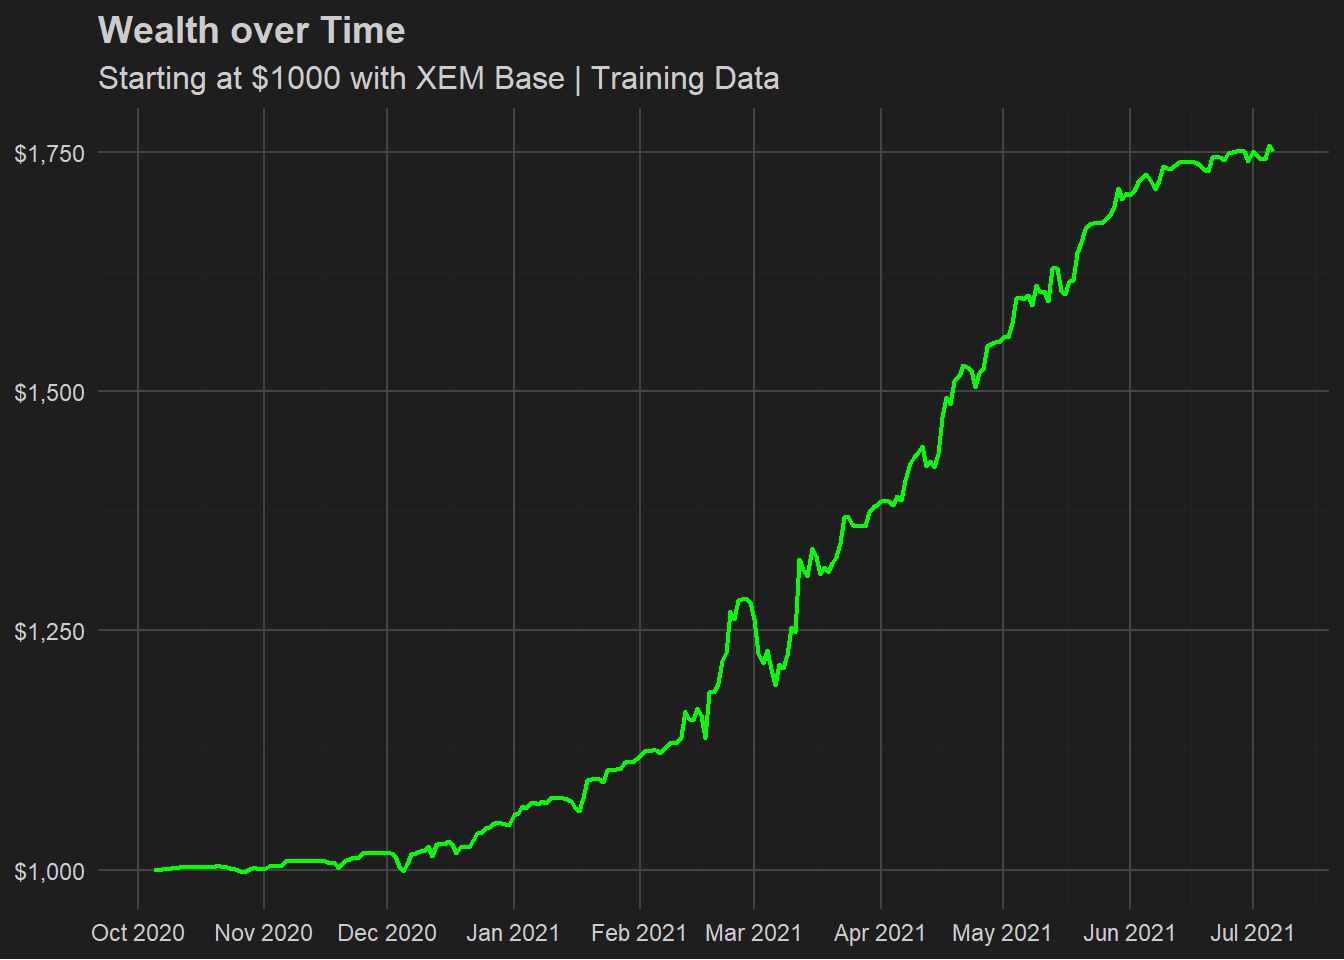
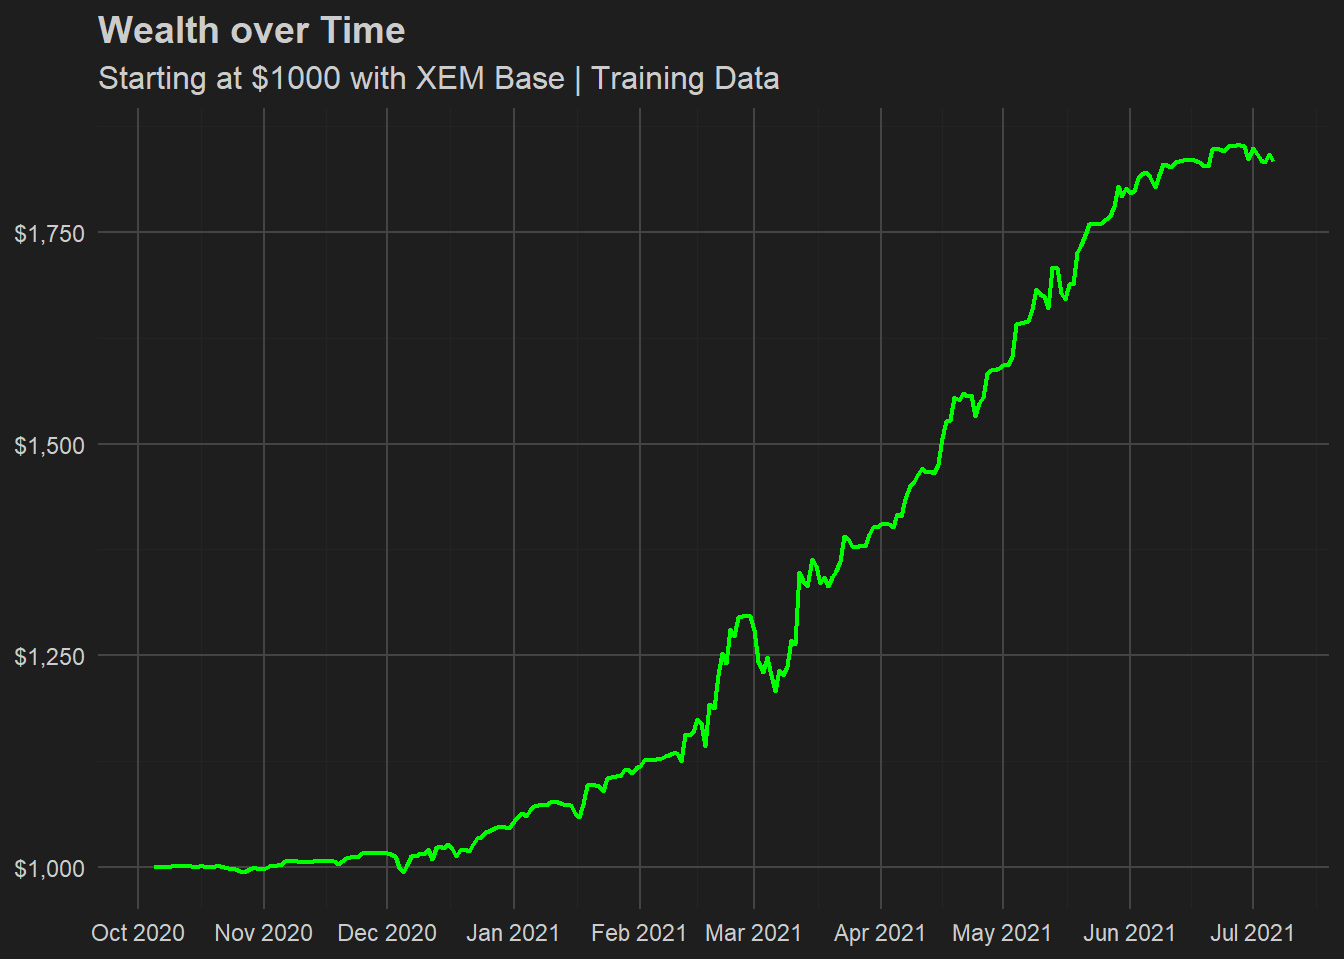
report final

diff --git a/trading_residuals_report.html b/trading_residuals_report.html
@@ -136,26 +136,24 @@ window.Quarto = {
 </header>
 
 
-<p># Regression Residual Trading</p>
 <div class="tabset-margin-container"></div><div class="panel-tabset">
 <ul class="nav nav-tabs" role="tablist"><li class="nav-item" role="presentation"><a class="nav-link active" id="tabset-1-1-tab" data-bs-toggle="tab" data-bs-target="#tabset-1-1" role="tab" aria-controls="tabset-1-1" aria-selected="true" href="">Overview</a></li><li class="nav-item" role="presentation"><a class="nav-link" id="tabset-1-2-tab" data-bs-toggle="tab" data-bs-target="#tabset-1-2" role="tab" aria-controls="tabset-1-2" aria-selected="false" href="">Formulation</a></li><li class="nav-item" role="presentation"><a class="nav-link" id="tabset-1-3-tab" data-bs-toggle="tab" data-bs-target="#tabset-1-3" role="tab" aria-controls="tabset-1-3" aria-selected="false" href="">Implementation</a></li><li class="nav-item" role="presentation"><a class="nav-link" id="tabset-1-4-tab" data-bs-toggle="tab" data-bs-target="#tabset-1-4" role="tab" aria-controls="tabset-1-4" aria-selected="false" href="">Improvements</a></li></ul>
 <div class="tab-content">
 <div id="tabset-1-1" class="tab-pane active" role="tabpanel" aria-labelledby="tabset-1-1-tab">
-<p>The foundation of this trading strategy is that traders will trade similar securities in a similar fashion. For example let’s consider two securities denoted <span class="math inline">\(S_1\)</span> and <span class="math inline">\(S_2\)</span>. We assume that traders will expect for these to move together. If <span class="math inline">\(S_1\)</span> or <span class="math inline">\(S_2\)</span> deviate from one another, we expect them to converge. This phenomena can be profited from by buying one security and shorting the other. This strategy will tell us which security to short and which to buy and in what quantities. It will also allow for more securities to be included, which improves the model.</p>
+<p>The foundation of this trading strategy is that traders will trade similar securities in a similar fashion. For example let’s consider two securities, who’s prices are denoted as <span class="math inline">\(S_B\)</span> and <span class="math inline">\(S_P\)</span>. We assume that traders will expect for these to move together. If <span class="math inline">\(S_B\)</span> or <span class="math inline">\(S_P\)</span> deviate from one another, we expect them to converge. This phenomena can be profited from by buying one security and shorting the other. The following strategy will tell us which security to short and which to buy and in what quantities. It will also allow for more securities to be included, which improves the model.</p>
 </div>
 <div id="tabset-1-2" class="tab-pane" role="tabpanel" aria-labelledby="tabset-1-2-tab">
-<section id="relating-s_1-and-s_2" class="level3">
-<h3 class="anchored" data-anchor-id="relating-s_1-and-s_2">Relating <span class="math inline">\(S_1\)</span> and <span class="math inline">\(S_2\)</span></h3>
-<p>To describe the phenomena described in the overview consider two securities denoted <span class="math inline">\(S_B\)</span> and <span class="math inline">\(S_P\)</span>, where <span class="math inline">\(S_B\)</span> is the “Base security” and <span class="math inline">\(S_P\)</span> is the “Pseudo-Security”.<br>
+<section id="relating-s_b-and-s_p" class="level3">
+<h3 class="anchored" data-anchor-id="relating-s_b-and-s_p">Relating <span class="math inline">\(S_B\)</span> and <span class="math inline">\(S_P\)</span></h3>
+<p>To describe the phenomena explained in the overview, consider two securities denoted <span class="math inline">\(S_B\)</span> and <span class="math inline">\(S_P\)</span>, where <span class="math inline">\(S_B\)</span> is the “Base security” and <span class="math inline">\(S_P\)</span> is the “Pseudo-Security”.<br>
 Let <span class="math display">\[S_{B,t} = S_{P,t} + \phi_t\]</span> where <span class="math inline">\(\phi_t \in \mathbb{R}\)</span>.<br>
-<span class="math inline">\(\phi_t\)</span> is essentially the residual for <span class="math inline">\(S_{B,t} = S_{P,t}\)</span>. If <span class="math inline">\(S_P\)</span> follows <span class="math inline">\(S_B\)</span> and they are thought to converge, then <span class="math inline">\(\phi\)</span> should be pushed toward <span class="math inline">\(0\)</span>.<br>
 While the base(<span class="math inline">\(S_B\)</span>) is just a security, The pseudo-security(<span class="math inline">\(S_B\)</span>) is more complex. It is a linear combination of securities that follows <span class="math inline">\(S_B\)</span>. By substituting <span class="math inline">\(S_{P,t} = \sum_{i=1}^{n} \gamma_i S_{i,t}\)</span> we get: <span class="math display">\[S_{B,t} = \sum_{i=1}^{n} \gamma_i S_{i,t} + \phi_t\]</span><br>
-where <span class="math inline">\(\lambda_i \in \mathbb{R}\)</span>.<br>
-All the <span class="math inline">\(\lambda_i\)</span> can be found using various methods. Least squares will be used here, though gradient decent could give a less overfit model.</p>
+where <span class="math inline">\(\gamma_i \in \mathbb{R}\)</span>.<br>
+All <span class="math inline">\(\gamma_i\)</span> can be found using various methods. Least squares will be used here, though gradient decent could give a less overfit model.</p>
 </section>
 <section id="how-to-trade-phi" class="level3">
 <h3 class="anchored" data-anchor-id="how-to-trade-phi">How to trade <span class="math inline">\(\phi\)</span></h3>
-<p>Using the formula <span class="math inline">\(S_{B,t} = \sum_{i=1}^{n} \gamma_i S_{i,t} + \phi_t\)</span>, <span class="math inline">\(phi_t\)</span> can be solved for to get: <span class="math display">\[\phi_t = S_{B,t} - \sum_{i=1}^{n} \gamma_i S_{i,t}\]</span> The <span class="math inline">\(\gamma_i\)</span> provides weights for each security to be bought at, as well as a weight of <span class="math inline">\(1\)</span> for <span class="math inline">\(S_B\)</span>. Each security <span class="math inline">\(S_i\)</span> will have <span class="math inline">\(\gamma_i\)</span> shares bought, negative <span class="math inline">\(\gamma\)</span> means going short.</p>
+<p>Using the formula <span class="math inline">\(S_{B,t} = \sum_{i=1}^{n} \gamma_i S_{i,t} + \phi_t\)</span>, solving for <span class="math inline">\(\phi_t\)</span> gives: <span class="math display">\[\phi_t = S_{B,t} - \sum_{i=1}^{n} \gamma_i S_{i,t}\]</span> The <span class="math inline">\(\gamma_i\)</span> provides weights for each security to be bought at, as well as a weight of <span class="math inline">\(1\)</span> for <span class="math inline">\(S_B\)</span>. Each security <span class="math inline">\(S_i\)</span> will have <span class="math inline">\(\gamma_i\)</span> shares bought, negative <span class="math inline">\(\gamma_i\)</span> means going short.</p>
 </section>
 <section id="properties-of-phi" class="level3">
 <h3 class="anchored" data-anchor-id="properties-of-phi">Properties of <span class="math inline">\(\phi\)</span></h3>
@@ -416,10 +414,12 @@ All the <span class="math inline">\(\lambda_i\)</span> can be found using variou
 <section id="position-sizing" class="level3">
 <h3 class="anchored" data-anchor-id="position-sizing">Position Sizing</h3>
 <p>To size trades, log utility maximization will be used. This will help avoid ruin. Wealth follows the formula: <span class="math display">\[W_{t+1} = W_t (1 + f_t R_{t+1})\]</span> where <span class="math inline">\(W_{t+1}\)</span> is tomorrows wealth, <span class="math inline">\(W_t\)</span> is today’s wealth, <span class="math inline">\(R_{t+1}\)</span> is tomorrow’s return on a trade, and <span class="math inline">\(f_{t}\)</span> is the fraction of wealth used in a trade.<br>
-Using log utility maximization we need to maximize: <span class="math display">\[\mathbb{E}[\ln(1+f_{t} R_t)]\]</span> Substituting <span class="math display">\[
+Using log utility maximization we need to maximize: <span class="math display">\[
+\mathbb{E}\!\left[ \ln\!\bigl(1 + f_{t} R_{t+1}\bigr) \right]
+\]</span> Substituting <span class="math display">\[
 R_{t+1} = \frac{\phi_{t+1}-\phi_{t}}{C_t}
 \]</span> where <span class="math inline">\(C_{t}\)</span> is the cost of purchasing <span class="math inline">\(\phi_{t}\)</span>. We then get: <span class="math display">\[
-\mathbb{E}[\ln(1+f_{t} \frac{\phi_{t+1}-\phi_{t}}{C_{t}})]
+\mathbb{E}\!\left[ \ln\!\biggl(1 + f_{t} \frac{\phi_{t+1} - \phi_{t}}{C_{t}}\biggr) \right]
 \]</span></p>
 <p>Since <span class="math inline">\(-\infty&lt;\phi&lt;\infty\)</span> the expected value cannot be analytically evaluated. Instead, the second order Taylor approximation can be used. Higher orders can be used for greater accuracy. The new approximation is: <span class="math display">\[
 \begin{align}
@@ -471,7 +471,8 @@ f_t = -\frac{C_{t}(1-\lambda)\phi_t}{(1-\lambda)^2\phi_t^2+\sigma^2}
 <section id="training-data" class="level3">
 <h3 class="anchored" data-anchor-id="training-data">Training Data</h3>
 <p>First, to ensure the mathematics behind the strategy are correct, trading will be simulated on the training data. This is to check for flaws in the underlying theory.<br>
-The fraction of wealth equation derived in the Formulation section can over leverage, so a cap of <span class="math inline">\(\pm0.9\)</span> is set on the fraction, as well as dividing it by <span class="math inline">\(20\)</span>. This coefficient is a way to increase or decrease risk while using the strategy.</p>
+The fraction of wealth equation derived in the Formulation section can over leverage, so the fraction is dividing by <span class="math inline">\(20\)</span> and a cap of <span class="math inline">\(\pm0.9\)</span> used. This reduces risk and safeguards against outliers. A number other than <span class="math inline">\(20\)</span> can be used to match personal risk tolerance.<br>
+This test also excludes less significant securities from the pseudo-security in attempt to reduce overfitting.</p>
 <div class="cell">
 <details class="code-fold">
 <summary>Code</summary>
@@ -544,7 +545,7 @@ The fraction of wealth equation derived in the Formulation section can over leve
 </div>
 </div>
 <p>This shows that the assumption of <span class="math inline">\(\phi\)</span> being a AR(1) is at least partially true, as well as confirming that the trade sizing found in the Formulation section is working.</p>
-<p>The following is the a closer look at XEM as a base. Even during downwards movement in the base the strategy can return a profit.</p>
+<p>The following is the a closer look at XEM as a base. Note that even during downwards movement in the base the strategy can return a profit.</p>
 <div class="cell">
 <details class="code-fold">
 <summary>Code</summary>
@@ -558,7 +559,7 @@ The fraction of wealth equation derived in the Formulation section can over leve
 <span id="cb6-8"><a href="#cb6-8" aria-hidden="true" tabindex="-1"></a>phi_t <span class="ot">=</span> <span class="fu">numeric</span>()</span>
 <span id="cb6-9"><a href="#cb6-9" aria-hidden="true" tabindex="-1"></a></span>
 <span id="cb6-10"><a href="#cb6-10" aria-hidden="true" tabindex="-1"></a></span>
-<span id="cb6-11"><a href="#cb6-11" aria-hidden="true" tabindex="-1"></a>model <span class="ot">=</span> <span class="fu">auto_lm</span>(trading_df, ticker, <span class="fl">1.00</span>)</span>
+<span id="cb6-11"><a href="#cb6-11" aria-hidden="true" tabindex="-1"></a>model <span class="ot">=</span> <span class="fu">auto_lm</span>(trading_df, ticker, <span class="fl">0.1</span>)</span>
 <span id="cb6-12"><a href="#cb6-12" aria-hidden="true" tabindex="-1"></a>fit <span class="ot">=</span> <span class="fu">Arima</span>(model<span class="sc">$</span>residuals, <span class="at">order =</span> <span class="fu">c</span>(<span class="dv">1</span>, <span class="dv">0</span>, <span class="dv">0</span>), <span class="at">include.mean =</span> F)</span>
 <span id="cb6-13"><a href="#cb6-13" aria-hidden="true" tabindex="-1"></a></span>
 <span id="cb6-14"><a href="#cb6-14" aria-hidden="true" tabindex="-1"></a>sigma_2 <span class="ot">=</span> <span class="fu">as.numeric</span>(fit<span class="sc">$</span>sigma2)</span>
@@ -678,137 +679,74 @@ The fraction of wealth equation derived in the Formulation section can over leve
 </thead>
 <tbody>
 <tr class="odd">
-<td style="text-align: left;">AAVE</td>
-<td style="text-align: right;">0.0001149</td>
-<td style="text-align: right;">0.0001340</td>
-<td style="text-align: right;">0.8573124</td>
-<td style="text-align: right;">0.3920741</td>
-</tr>
-<tr class="even">
-<td style="text-align: left;">BNB</td>
-<td style="text-align: right;">0.0002128</td>
-<td style="text-align: right;">0.0001870</td>
-<td style="text-align: right;">1.1380563</td>
-<td style="text-align: right;">0.2561609</td>
-</tr>
-<tr class="odd">
-<td style="text-align: left;">BTC</td>
-<td style="text-align: right;">0.0000017</td>
-<td style="text-align: right;">0.0000017</td>
-<td style="text-align: right;">0.9712177</td>
-<td style="text-align: right;">0.3323566</td>
-</tr>
-<tr class="even">
 <td style="text-align: left;">ADA</td>
-<td style="text-align: right;">0.1688994</td>
-<td style="text-align: right;">0.0378065</td>
-<td style="text-align: right;">4.4674672</td>
-<td style="text-align: right;">0.0000119</td>
+<td style="text-align: right;">0.1643243</td>
+<td style="text-align: right;">0.0284003</td>
+<td style="text-align: right;">5.785999</td>
+<td style="text-align: right;">0.0000000</td>
 </tr>
-<tr class="odd">
+<tr class="even">
 <td style="text-align: left;">LINK</td>
-<td style="text-align: right;">0.0037530</td>
-<td style="text-align: right;">0.0025486</td>
-<td style="text-align: right;">1.4725536</td>
-<td style="text-align: right;">0.1420998</td>
-</tr>
-<tr class="even">
-<td style="text-align: left;">ATOM</td>
-<td style="text-align: right;">0.0028293</td>
-<td style="text-align: right;">0.0033742</td>
-<td style="text-align: right;">0.8385104</td>
-<td style="text-align: right;">0.4025264</td>
+<td style="text-align: right;">0.0035640</td>
+<td style="text-align: right;">0.0018272</td>
+<td style="text-align: right;">1.950536</td>
+<td style="text-align: right;">0.0521664</td>
 </tr>
 <tr class="odd">
-<td style="text-align: left;">CRO</td>
-<td style="text-align: right;">-0.2263950</td>
-<td style="text-align: right;">0.1948246</td>
-<td style="text-align: right;">-1.1620455</td>
-<td style="text-align: right;">0.2462992</td>
-</tr>
-<tr class="even">
-<td style="text-align: left;">DOGE</td>
-<td style="text-align: right;">-0.1031401</td>
-<td style="text-align: right;">0.1161783</td>
-<td style="text-align: right;">-0.8877740</td>
-<td style="text-align: right;">0.3754956</td>
-</tr>
-<tr class="odd">
-<td style="text-align: left;">EOS</td>
-<td style="text-align: right;">0.0045942</td>
-<td style="text-align: right;">0.0096425</td>
-<td style="text-align: right;">0.4764503</td>
-<td style="text-align: right;">0.6341600</td>
-</tr>
-<tr class="even">
 <td style="text-align: left;">ETH</td>
-<td style="text-align: right;">-0.0003197</td>
-<td style="text-align: right;">0.0000427</td>
-<td style="text-align: right;">-7.4888474</td>
+<td style="text-align: right;">-0.0003330</td>
+<td style="text-align: right;">0.0000258</td>
+<td style="text-align: right;">-12.904151</td>
+<td style="text-align: right;">0.0000000</td>
+</tr>
+<tr class="even">
+<td style="text-align: left;">MIOTA</td>
+<td style="text-align: right;">-0.2357942</td>
+<td style="text-align: right;">0.0388621</td>
+<td style="text-align: right;">-6.067463</td>
 <td style="text-align: right;">0.0000000</td>
 </tr>
 <tr class="odd">
-<td style="text-align: left;">MIOTA</td>
-<td style="text-align: right;">-0.2470851</td>
-<td style="text-align: right;">0.0526307</td>
-<td style="text-align: right;">-4.6946914</td>
-<td style="text-align: right;">0.0000044</td>
-</tr>
-<tr class="even">
 <td style="text-align: left;">LTC</td>
-<td style="text-align: right;">0.0011058</td>
-<td style="text-align: right;">0.0004226</td>
-<td style="text-align: right;">2.6163705</td>
-<td style="text-align: right;">0.0094152</td>
-</tr>
-<tr class="odd">
-<td style="text-align: left;">XMR</td>
-<td style="text-align: right;">0.0010553</td>
-<td style="text-align: right;">0.0002318</td>
-<td style="text-align: right;">4.5529777</td>
-<td style="text-align: right;">0.0000082</td>
+<td style="text-align: right;">0.0013217</td>
+<td style="text-align: right;">0.0002744</td>
+<td style="text-align: right;">4.816618</td>
+<td style="text-align: right;">0.0000025</td>
 </tr>
 <tr class="even">
-<td style="text-align: left;">DOT</td>
-<td style="text-align: right;">0.0062938</td>
-<td style="text-align: right;">0.0022109</td>
-<td style="text-align: right;">2.8466954</td>
-<td style="text-align: right;">0.0047756</td>
+<td style="text-align: left;">XMR</td>
+<td style="text-align: right;">0.0011436</td>
+<td style="text-align: right;">0.0001652</td>
+<td style="text-align: right;">6.922358</td>
+<td style="text-align: right;">0.0000000</td>
 </tr>
 <tr class="odd">
-<td style="text-align: left;">SOL</td>
-<td style="text-align: right;">-0.0009418</td>
-<td style="text-align: right;">0.0017224</td>
-<td style="text-align: right;">-0.5467599</td>
-<td style="text-align: right;">0.5850200</td>
+<td style="text-align: left;">DOT</td>
+<td style="text-align: right;">0.0075211</td>
+<td style="text-align: right;">0.0015652</td>
+<td style="text-align: right;">4.805074</td>
+<td style="text-align: right;">0.0000026</td>
 </tr>
 <tr class="even">
 <td style="text-align: left;">XLM</td>
-<td style="text-align: right;">0.3495579</td>
-<td style="text-align: right;">0.1605677</td>
-<td style="text-align: right;">2.1770120</td>
-<td style="text-align: right;">0.0303935</td>
+<td style="text-align: right;">0.5516874</td>
+<td style="text-align: right;">0.1099858</td>
+<td style="text-align: right;">5.015985</td>
+<td style="text-align: right;">0.0000010</td>
 </tr>
 <tr class="odd">
 <td style="text-align: left;">TRX</td>
-<td style="text-align: right;">-1.4750140</td>
-<td style="text-align: right;">0.6367465</td>
-<td style="text-align: right;">-2.3164855</td>
-<td style="text-align: right;">0.0213218</td>
+<td style="text-align: right;">-1.3998900</td>
+<td style="text-align: right;">0.3985262</td>
+<td style="text-align: right;">-3.512667</td>
+<td style="text-align: right;">0.0005214</td>
 </tr>
 <tr class="even">
 <td style="text-align: left;">UNI</td>
-<td style="text-align: right;">0.0039297</td>
-<td style="text-align: right;">0.0022808</td>
-<td style="text-align: right;">1.7229325</td>
-<td style="text-align: right;">0.0861083</td>
-</tr>
-<tr class="odd">
-<td style="text-align: left;">XRP</td>
-<td style="text-align: right;">0.0299196</td>
-<td style="text-align: right;">0.0461054</td>
-<td style="text-align: right;">0.6489393</td>
-<td style="text-align: right;">0.5169593</td>
+<td style="text-align: right;">0.0054319</td>
+<td style="text-align: right;">0.0016646</td>
+<td style="text-align: right;">3.263185</td>
+<td style="text-align: right;">0.0012463</td>
 </tr>
 </tbody>
 </table>
@@ -820,7 +758,8 @@ The fraction of wealth equation derived in the Formulation section can over leve
 </section>
 <section id="testing-data" class="level3">
 <h3 class="anchored" data-anchor-id="testing-data">Testing Data</h3>
-<p>For a more realistic simulation a test train split of 80% training and 20% testing data is used. The following is using the first 80% of the data to find the weights <span class="math inline">\(\gamma_n\)</span> and the last 20% is used to find <span class="math inline">\(\phi\)</span> and to trade. This test also excludes less significant securities from the pseudo-security in attempt to reduce over fitting, as well as dividing the fraction by 20 and capping to <span class="math inline">\(\pm0.9\)</span> to avoid over leveraging.</p>
+<p>For a more realistic simulation a test-train-split of 80% training and 20% testing data is used. The following uses the first 80% of the data to find the weights <span class="math inline">\(\gamma_i\)</span> and the last 20% to find and trade <span class="math inline">\(\phi\)</span>.<br>
+The trade size will be divided by 20 and capping to <span class="math inline">\(\pm0.9\)</span> to avoid over leveraging.</p>
 <div class="cell">
 <details class="code-fold">
 <summary>Code</summary>
@@ -893,7 +832,7 @@ The fraction of wealth equation derived in the Formulation section can over leve
 </div>
 </div>
 </div>
-<p>This is one of many ways to trade using this strategy. A sliding window can be used to find all <span class="math inline">\(\gamma_n\)</span> then trade on the very next day. Here is a example of this:</p>
+<p>This is one of many ways to trade using this strategy. A sliding window can be used to find all <span class="math inline">\(\gamma_i\)</span> then trade on the very next day. Here is a example of this:</p>
 <div class="cell">
 <details class="code-fold">
 <summary>Code</summary>
@@ -966,7 +905,7 @@ The fraction of wealth equation derived in the Formulation section can over leve
 <span id="cb10-67"><a href="#cb10-67" aria-hidden="true" tabindex="-1"></a><span class="co"># ---- Run strategy for all tickers and all window sizes ----</span></span>
 <span id="cb10-68"><a href="#cb10-68" aria-hidden="true" tabindex="-1"></a>balance_all <span class="ot">&lt;-</span> <span class="fu">map_dfr</span>(window_sizes, <span class="cf">function</span>(w) {</span>
 <span id="cb10-69"><a href="#cb10-69" aria-hidden="true" tabindex="-1"></a>  <span class="fu">map_dfr</span>(tickers, <span class="sc">~</span> <span class="fu">run_strategy</span>(.x, securities_wide, <span class="at">n_window =</span> w)) <span class="sc">%&gt;%</span></span>
-<span id="cb10-70"><a href="#cb10-70" aria-hidden="true" tabindex="-1"></a>    <span class="fu">mutate</span>(<span class="at">window =</span> <span class="fu">paste0</span>(w, <span class="st">" days"</span>))</span>
+<span id="cb10-70"><a href="#cb10-70" aria-hidden="true" tabindex="-1"></a>    <span class="fu">mutate</span>(<span class="at">window =</span> <span class="fu">paste0</span>(w, <span class="st">" day window"</span>))</span>
 <span id="cb10-71"><a href="#cb10-71" aria-hidden="true" tabindex="-1"></a>})</span>
 <span id="cb10-72"><a href="#cb10-72" aria-hidden="true" tabindex="-1"></a></span>
 <span id="cb10-73"><a href="#cb10-73" aria-hidden="true" tabindex="-1"></a><span class="co"># ---- Plot with separate section for each window ----</span></span>
@@ -978,7 +917,7 @@ The fraction of wealth equation derived in the Formulation section can over leve
 <span id="cb10-79"><a href="#cb10-79" aria-hidden="true" tabindex="-1"></a>       <span class="at">y =</span> <span class="cn">NULL</span>, <span class="at">x =</span> <span class="cn">NULL</span>,</span>
 <span id="cb10-80"><a href="#cb10-80" aria-hidden="true" tabindex="-1"></a>       <span class="at">color =</span> <span class="st">"Base"</span>) <span class="sc">+</span></span>
 <span id="cb10-81"><a href="#cb10-81" aria-hidden="true" tabindex="-1"></a>  <span class="fu">scale_y_continuous</span>(<span class="at">labels =</span> scales<span class="sc">::</span>dollar, <span class="at">breaks =</span> <span class="fu">seq</span>(<span class="dv">500</span>, <span class="dv">2000</span>, <span class="dv">250</span>)) <span class="sc">+</span></span>
-<span id="cb10-82"><a href="#cb10-82" aria-hidden="true" tabindex="-1"></a>  <span class="fu">scale_x_date</span>(<span class="at">date_breaks =</span> <span class="st">"1 month"</span>, <span class="at">date_labels =</span> <span class="st">"%b %Y"</span>) <span class="sc">+</span></span>
+<span id="cb10-82"><a href="#cb10-82" aria-hidden="true" tabindex="-1"></a>  <span class="fu">scale_x_date</span>(<span class="at">date_breaks =</span> <span class="st">"2 month"</span>, <span class="at">date_labels =</span> <span class="st">"%b %Y"</span>) <span class="sc">+</span></span>
 <span id="cb10-83"><a href="#cb10-83" aria-hidden="true" tabindex="-1"></a>  <span class="fu">theme_dark_mode</span>() <span class="sc">+</span></span>
 <span id="cb10-84"><a href="#cb10-84" aria-hidden="true" tabindex="-1"></a>  <span class="fu">theme</span>(</span>
 <span id="cb10-85"><a href="#cb10-85" aria-hidden="true" tabindex="-1"></a>    <span class="at">strip.text.x =</span> <span class="fu">element_text</span>(<span class="at">face =</span> <span class="st">"bold"</span>, <span class="at">size =</span> <span class="dv">12</span>,</span>
@@ -993,7 +932,7 @@ The fraction of wealth equation derived in the Formulation section can over leve
 </div>
 </div>
 </div>
-<p>It seems as though the theory doesn’t transfer well to real data. Perhaps the model is overfit. Other methods could be used to reduce overfitting and make a better model, such improvements will be listed in the Improvments tab.</p>
+<p>It seems as though the theory doesn’t transfer well to real data. Perhaps the model is overfit. Other methods could be used to reduce overfitting and make a better model, such improvements will be listed in the Improvements tab.</p>
 </section>
 </div>
 <div id="tabset-1-4" class="tab-pane" role="tabpanel" aria-labelledby="tabset-1-4-tab">
